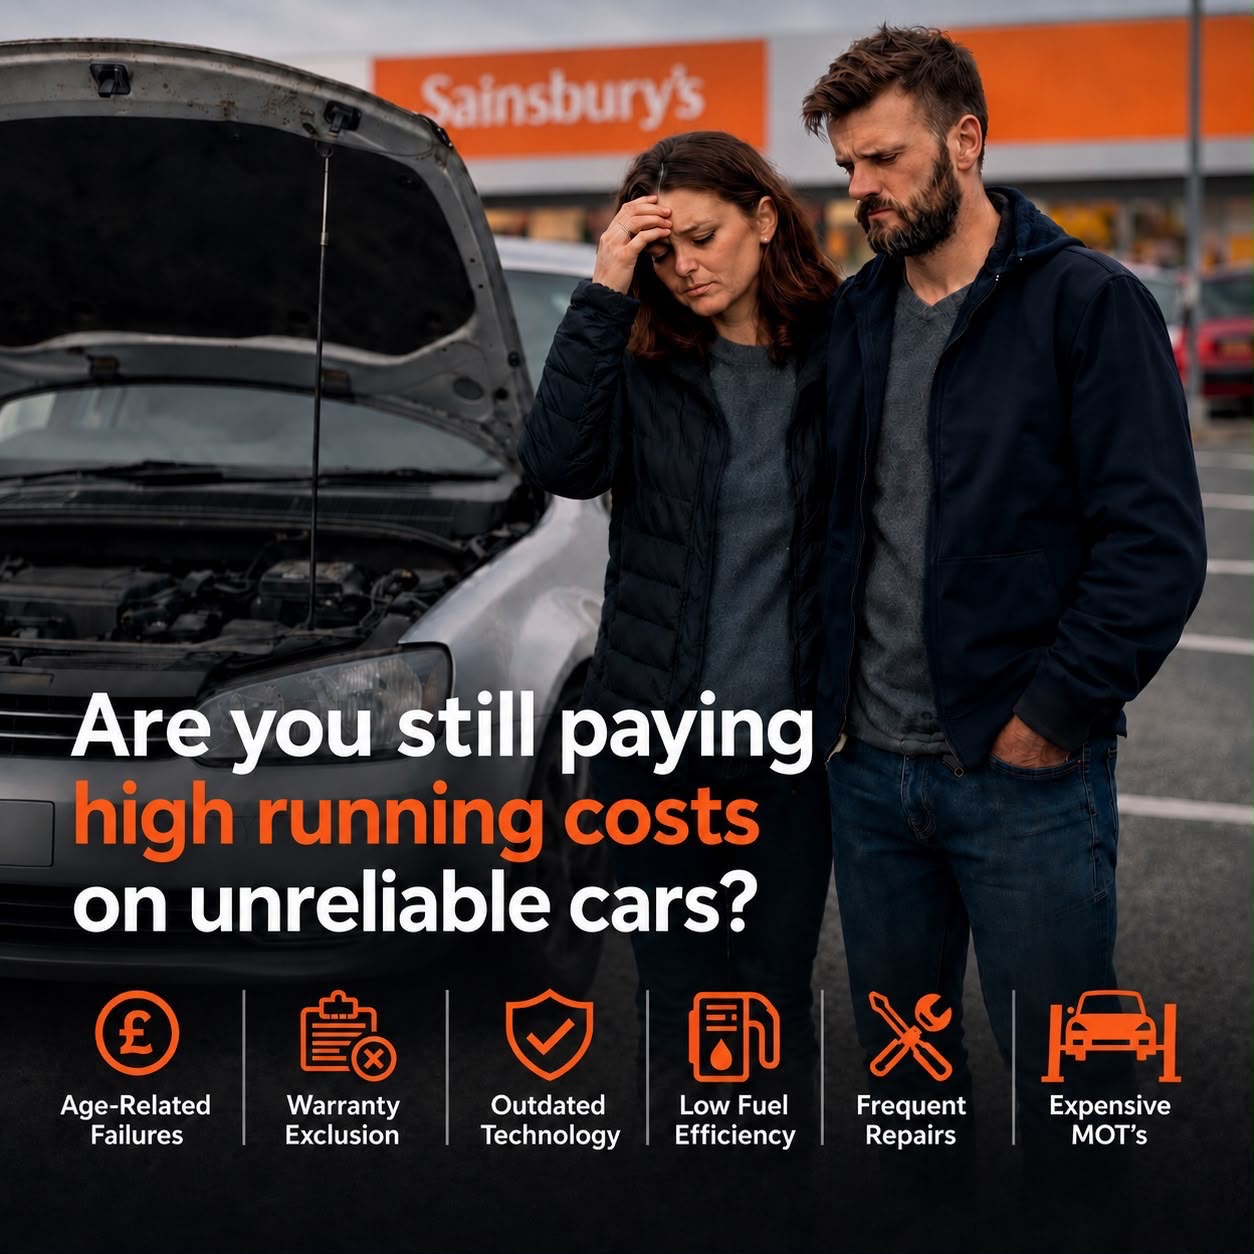
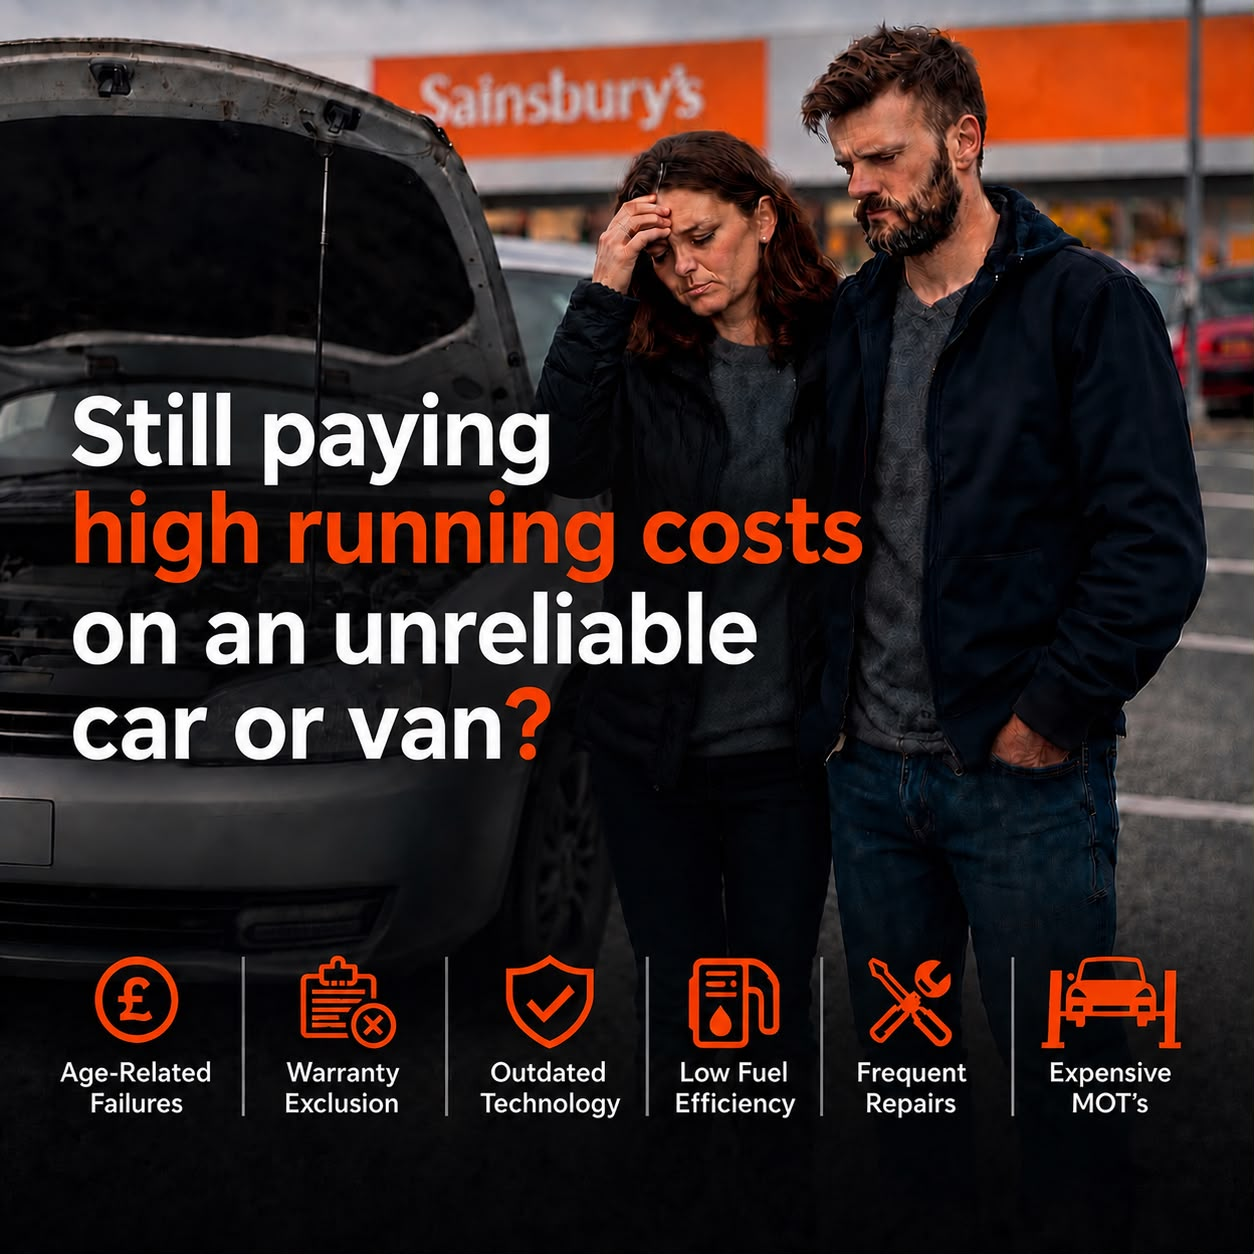
VLA: replace running-costs USP image with new marketing graphic

diff --git a/VehicleLeasingAssociates/index.html b/VehicleLeasingAssociates/index.html
@@ -221,11 +221,11 @@
 <!-- PROBLEM / WHY LEASE -->
 <section class="section">
   <div class="container split">
-    <div class="problem-media reveal"><img src="images/usp-running-costs.jpg" alt="High running costs on unreliable cars"></div>
+    <div class="problem-media reveal"><img src="images/usp-running-costs.jpg" alt="Still paying high running costs on an unreliable car or van?"></div>
     <div class="split-body reveal">
       <span class="eyebrow">Time for a Change?</span>
       <h2>Stop Paying High Running Costs on Unreliable Cars</h2>
-      <p>Age-related failures, warranty exclusions, outdated technology, poor fuel efficiency, frequent repairs and expensive MOTs — older vehicles quietly drain your money. Leasing a brand-new vehicle puts an end to it.</p>
+      <p>Age-related failures, warranty exclusions, outdated technology, poor fuel efficiency, frequent repairs and expensive MOTs — older vehicles quietly drain your money.<br><br><b> Leasing a brand-new or pre registered vehicle eliminates all these risks.</b></p>
       <ul class="checklist two">
         <li><i data-lucide="check-circle-2"></i> No MOT concerns</li>
         <li><i data-lucide="check-circle-2"></i> Road tax included</li>